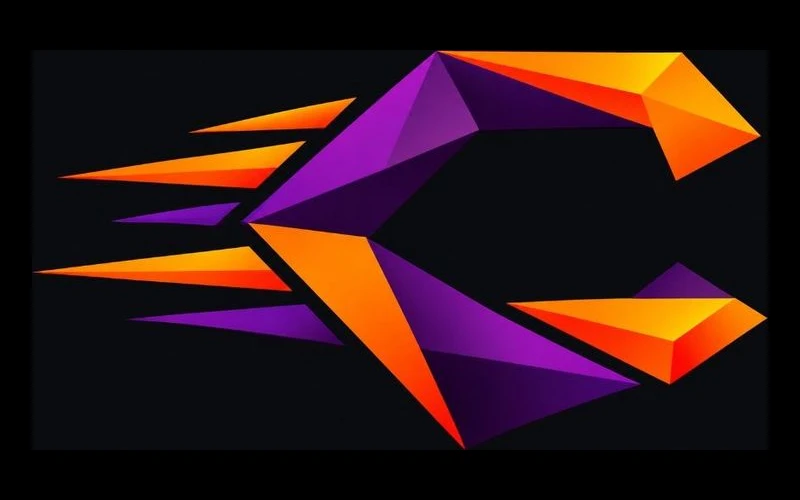
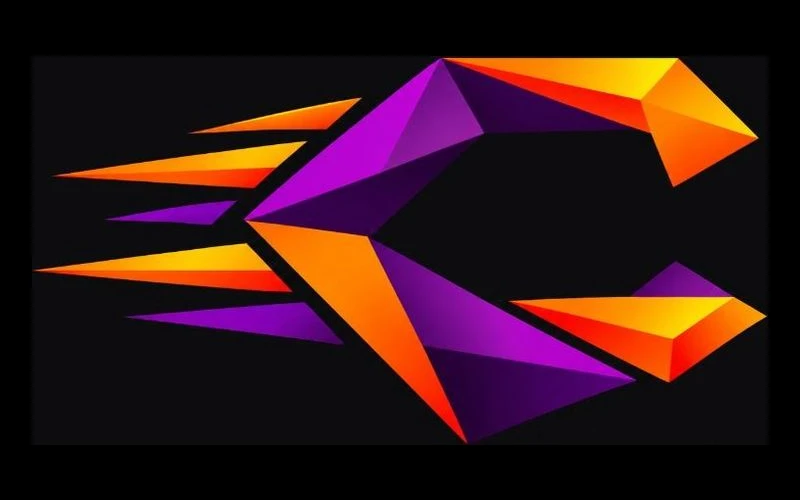
fix: troca as capas do Correria e do Rango

diff --git a/src/styles/_projects.scss b/src/styles/_projects.scss
@@ -57,11 +57,11 @@ mat-card.project-card {
 }
 
 .shot[data-shot='correria'] img {
-  transform: scale(1.18);
+  transform: scale(1.28);
 }
 
 .shot[data-shot='rango'] img {
-  transform: scale(1.72);
+  transform: scale(1.9);
 }
 
 .shot img,
